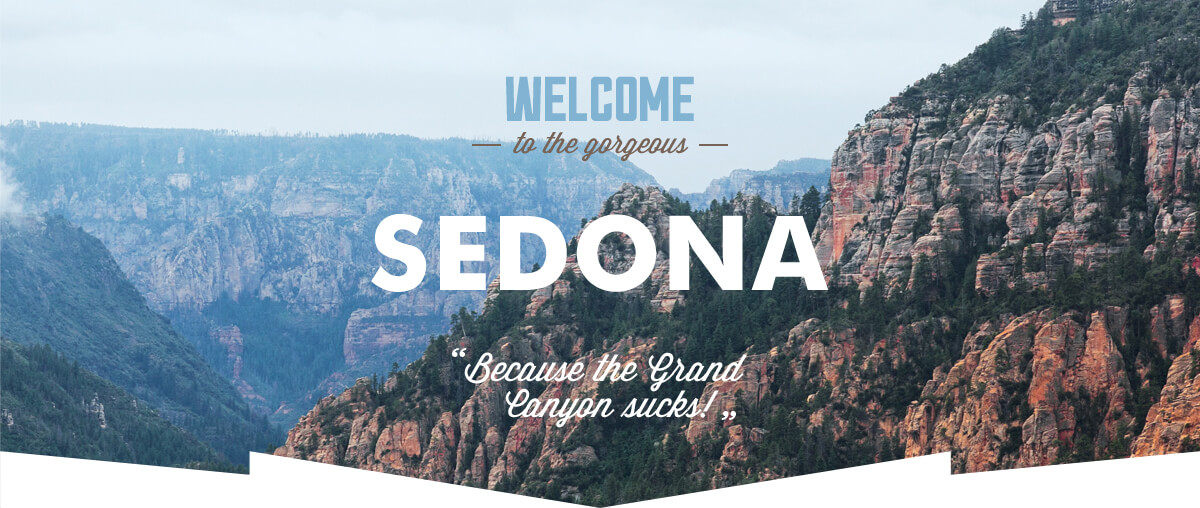
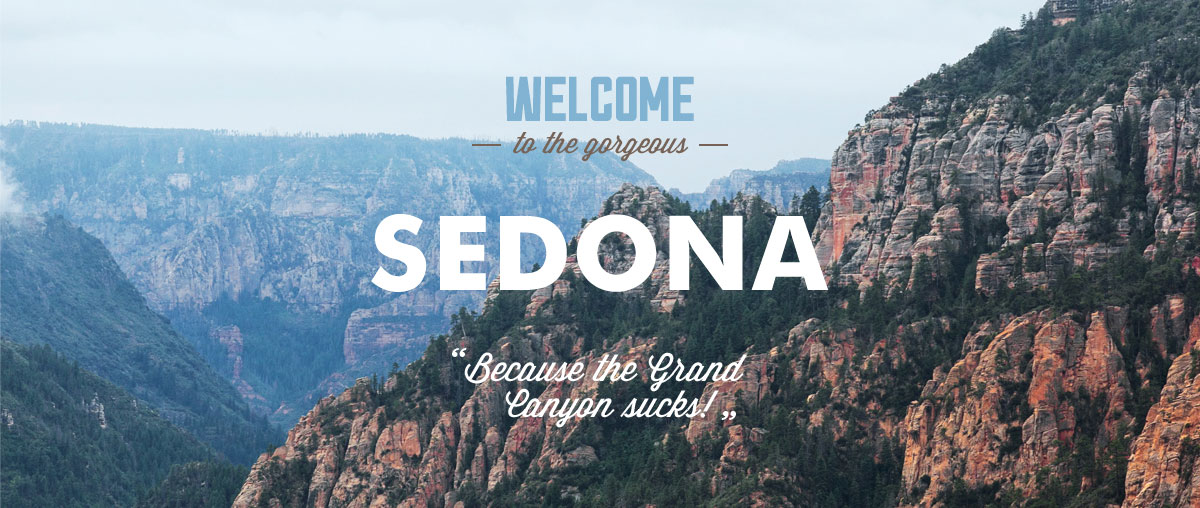
добавил маску intro top

Changed region(s): [[0.0, 0.8858, 1.0, 1.0]]

diff --git a/index.html b/index.html
@@ -33,7 +33,7 @@
     <main>
         <section class="intro">
             <div class="intro-top">
-                <img src="img/intro-image.jpg" alt="Sedona" align="center">
+                <img src="img/intro-image.jpg" alt="Sedona">
             </div>
             <div class="intro-bottom">
                 <h2 class="main-title">Седона-небольшой городок в Аризоне, заслуживающий большего</h2>
@@ -112,14 +112,14 @@
                             <label for="arrival">Дата Заезда:</label>
                             <input type="text" id="arrival" name="arrival" value="24 апреля 2017">
                             <span class="input-date">
-                                <img src="img/calendar.svg">
+                                <img src="img/calendar.svg" alt="calendar">
                             </span>
                         </div>
                         <div class="form-item">
                             <label for="departure">Дата выезда:</label>
                             <input type="text" id="departure" name="departure" value="4 июля 2017">
                             <span class="input-date">
-                                <img src="img/calendar.svg">
+                                <img src="img/calendar.svg" alt="calendar">
                             </span>
                         </div>
                         <div class="form-item">
@@ -138,7 +138,7 @@
             </div>
         </section>
         <section class="map">
-            <iframe width="100%" height="147%" frameborder="0" style="border:0" src="https://www.google.com/maps/embed/v1/place?q=place_id:ChIJDbBC-TKhLYcR_Y5s-iPFSFU&key=AIzaSyDmKjKfZH4PTFxQEnVAA37YY4gNd0SzIjI&zoom=9&center=34.861126, -111.771797"></iframe>
+            <iframe  style="border:0" src="https://www.google.com/maps/embed/v1/place?q=place_id:ChIJDbBC-TKhLYcR_Y5s-iPFSFU&key=AIzaSyDmKjKfZH4PTFxQEnVAA37YY4gNd0SzIjI&zoom=9&center=34.861126,-111.771797"></iframe>
         </section>
     </main>
     <footer class="page-footer">
@@ -161,7 +161,7 @@
         <div class="footer-item">
             <span class="footer-logo-pre">website by</span>
             <a href="https://htmlacademy.ru/intensive/htmlcss" class="footer-logo-after logo-footer">
-                <img src="img/logo-htmlacademy.svg" alt="htmlAcademy" width="115" height="41" alt="htmlAcademy">
+                <img src="img/logo-htmlacademy.svg" width="115" height="41" alt="htmlAcademy">
             </a>
         </div>
     </footer>

diff --git a/css/style.css b/css/style.css
@@ -109,6 +109,19 @@ input {
     transform: translate(-50%);
 }
 
+.intro-top:after {
+    content: "";
+    position: absolute;
+    height: 57px;
+    width: 100%;
+    background: url("../img/bottom.png") no-repeat;
+    background-size: 100%;
+    background-position: bottom;
+    bottom: 0;
+    left: 0;
+
+}
+
 .intro-bottom {
     padding: 60px 6% 50px 6%;
 }
@@ -322,6 +335,8 @@ input {
 
 
 .map iframe {
+    width: 100%;
+    height: 147%;
     position: absolute;
     left: 50%;
     transform: translate(-50%);
